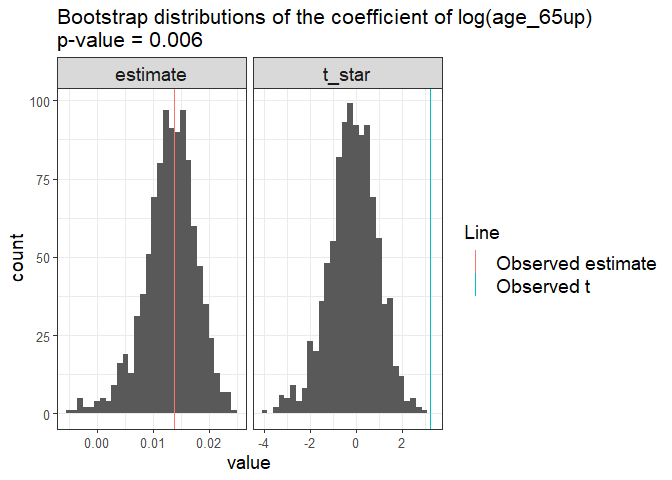
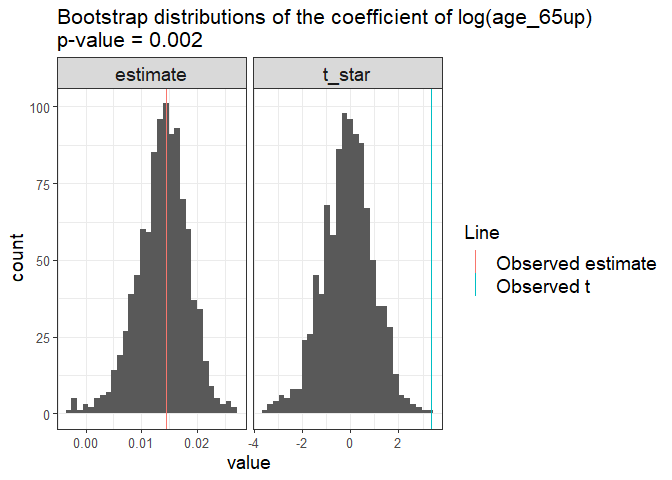
Added model 3 info in report

diff --git a/doc/report.md b/doc/report.md
@@ -261,12 +261,12 @@ head(df_sub)
     ## # A tibble: 6 x 6
     ##   country       rate age_65up med_bed death_100_ind confirmed_rate
     ##   <chr>        <dbl>    <dbl>   <dbl>         <dbl>          <dbl>
-    ## 1 Afghanistan 0.0253     2.58     0.5         0.878     0.000163  
-    ## 2 Albania     0.0338    13.7      2.9         1         0.000320  
-    ## 3 Algeria     0.0809     6.36     1.9         0.469     0.000157  
+    ## 1 Afghanistan 0.0241     2.58     0.5         0.889     0.000152  
+    ## 2 Albania     0.0345    13.7      2.9         1         0.000313  
+    ## 3 Algeria     0.0821     6.36     1.9         0.475     0.000153  
     ## 4 Angola      0.0417     2.22     0.8         1         0.00000156
-    ## 5 Argentina   0.0476    11.1      5           0.568     0.000168  
-    ## 6 Australia   0.0139    15.7      3.8         0.541     0.00225
+    ## 5 Argentina   0.0495    11.1      5           0.575     0.000160  
+    ## 6 Australia   0.0140    15.7      3.8         0.545     0.00225
 
 ``` r
 # the final multiple linear regression model
@@ -278,11 +278,11 @@ analyze_lm(model_1)
     ## # A tibble: 5 x 7
     ##   term         estimate std.error statistic   p.value p.value.adjust significant
     ##   <chr>           <dbl>     <dbl>     <dbl>     <dbl>          <dbl> <lgl>      
-    ## 1 (Intercept)   0.0631   0.0126        5.00   1.72e-6     0.00000861 TRUE       
-    ## 2 age_65up      0.00162  0.000610      2.66   8.75e-3     0.0109     TRUE       
-    ## 3 med_bed      -0.00316  0.00148      -2.13   3.51e-2     0.0351     TRUE       
-    ## 4 death_100_i~ -0.0393   0.0120       -3.26   1.39e-3     0.00348    TRUE       
-    ## 5 confirmed_r~  1.61     0.576         2.80   5.79e-3     0.00964    TRUE
+    ## 1 (Intercept)   0.0639   0.0130        4.93   2.32e-6      0.0000116 TRUE       
+    ## 2 age_65up      0.00158  0.000622      2.53   1.25e-2      0.0156    TRUE       
+    ## 3 med_bed      -0.00333  0.00151      -2.20   2.91e-2      0.0291    TRUE       
+    ## 4 death_100_i~ -0.0383   0.0124       -3.10   2.35e-3      0.00588   TRUE       
+    ## 5 confirmed_r~  1.65     0.596         2.77   6.28e-3      0.0105    TRUE
 
 To assess this model, I checked whether the “LINE” conditions for
 multiple linear regression hold. The data were collected in each country
@@ -313,7 +313,7 @@ rstatix::shapiro_test(residuals(model_1))
     ## # A tibble: 1 x 3
     ##   variable           statistic      p.value
     ##   <chr>                  <dbl>        <dbl>
-    ## 1 residuals(model_1)     0.905 0.0000000418
+    ## 1 residuals(model_1)     0.903 0.0000000315
 
 ``` r
 # Compute Bartlett test of homogeneity of variances
@@ -325,7 +325,7 @@ df_sub[-1] %>%
     ##  Bartlett test of homogeneity of variances
     ## 
     ## data:  .
-    ## Bartlett's K-squared = 3676.3, df = 4, p-value < 2.2e-16
+    ## Bartlett's K-squared = 3706.3, df = 4, p-value < 2.2e-16
 
 First, check the Residuals vs Fitted plot for the linearity assumption.
 Residuals should have zero expectations at each fitted value. There are
@@ -371,11 +371,11 @@ analyze_lm(model_2)
     ## # A tibble: 5 x 7
     ##   term          estimate std.error statistic  p.value p.value.adjust significant
     ##   <chr>            <dbl>     <dbl>     <dbl>    <dbl>          <dbl> <lgl>      
-    ## 1 (Intercept)    0.0751   0.0176        4.27  3.56e-5      0.0000890 TRUE       
-    ## 2 log(age_65up)  0.0133   0.00356       3.74  2.65e-4      0.000441  TRUE       
-    ## 3 log(med_bed)  -0.00936  0.00333      -2.81  5.62e-3      0.00562   TRUE       
-    ## 4 log(death_10~ -0.112    0.0242       -4.64  8.02e-6      0.0000401 TRUE       
-    ## 5 log(confirme~ -0.00299  0.000976     -3.07  2.62e-3      0.00327   TRUE
+    ## 1 (Intercept)    0.0748   0.0178        4.21  4.51e-5      0.000113  TRUE       
+    ## 2 log(age_65up)  0.0138   0.00355       3.88  1.63e-4      0.000272  TRUE       
+    ## 3 log(med_bed)  -0.0102   0.00334      -3.06  2.67e-3      0.00267   TRUE       
+    ## 4 log(death_10~ -0.113    0.0245       -4.61  8.91e-6      0.0000446 TRUE       
+    ## 5 log(confirme~ -0.00312  0.000981     -3.18  1.79e-3      0.00223   TRUE
 
 Again I checked whether the “LINE” conditions hold to assess the model.
 The independence assumption is reasonable as before. For the rest
@@ -396,7 +396,7 @@ rstatix::shapiro_test(residuals(model_2))
     ## # A tibble: 1 x 3
     ##   variable           statistic p.value
     ##   <chr>                  <dbl>   <dbl>
-    ## 1 residuals(model_2)     0.984   0.103
+    ## 1 residuals(model_2)     0.985   0.120
 
 ``` r
 # Compute Bartlett test of homogeneity of variances
@@ -409,7 +409,7 @@ df_sub[-1] %>%
     ##  Bartlett test of homogeneity of variances
     ## 
     ## data:  .
-    ## Bartlett's K-squared = 3678.4, df = 4, p-value < 2.2e-16
+    ## Bartlett's K-squared = 3708.5, df = 4, p-value < 2.2e-16
 
 First, the averages of residuals are slightly smaller than zero in the
 Residuals vs Fitted plot but may not be a big problem. I would say that
@@ -450,6 +450,18 @@ model_3 <- df_sub %>%
 
 model_3_results <- analyze_lm(model_3)
 
+model_3_results
+```
+
+    ## # A tibble: 4 x 7
+    ##   term           estimate std.error statistic p.value p.value.adjust significant
+    ##   <chr>             <dbl>     <dbl>     <dbl>   <dbl>          <dbl> <lgl>      
+    ## 1 (Intercept)      0.0850   0.0197       4.31 3.01e-5       0.000121 TRUE       
+    ## 2 log(age_65up)    0.0144   0.00428      3.37 9.82e-4       0.00113  TRUE       
+    ## 3 log(med_bed)    -0.0137   0.00338     -4.04 8.68e-5       0.000174 TRUE       
+    ## 4 log(death_100~  -0.0829   0.0249      -3.32 1.13e-3       0.00113  TRUE
+
+``` r
 boot_results <- df_sub %>%
     mutate(rate = (rate*(133 -1) + 2)/133) %>%
     rsample::bootstraps(N) %>% 
@@ -459,11 +471,7 @@ boot_results <- df_sub %>%
            tidy = map(lm, broom::tidy)) %>% 
     select(-splits, -lm) %>% 
     unnest(tidy)
-```
 
-    ## Warning: glm.fit: algorithm did not converge
-
-``` r
 plot_results(boot_results, "log(age_65up)", model_3_results)
 ```
 
